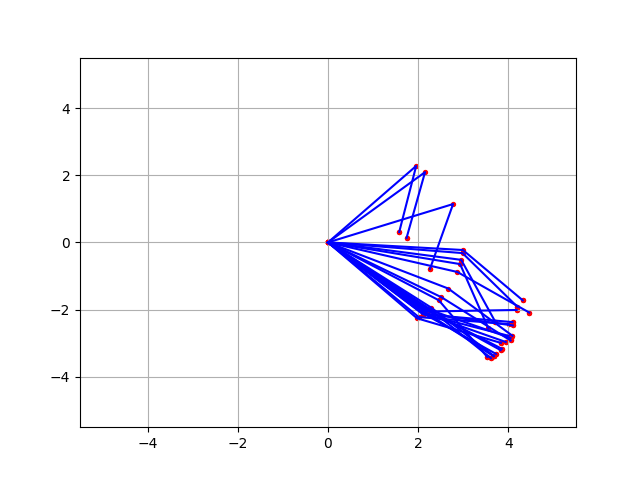
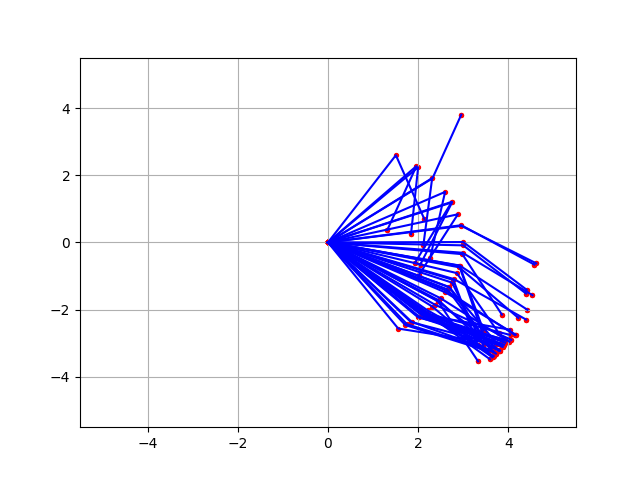
configs for dof added visualization of latent space for INN added

Changed region(s): [[0.5, 0.3125, 0.8438, 0.75], [0.6875, 0.25, 0.7188, 0.3438], [0.8125, 0.5312, 0.8438, 0.5625]]

diff --git a/src/models/INN.py b/src/models/INN.py
@@ -3,6 +3,7 @@ from torch import nn
 import torch.nn.functional as F
 from utils import onehot
 import numpy as np
+import matplotlib.pyplot as plt
 
 '''
 
@@ -48,13 +49,13 @@ class sub_network(nn.Module):
     def __init__(self, input_dim, hidden_dim, output_dim):
         super(sub_network, self).__init__()
         self.fc1 = nn.Linear(in_features=input_dim, out_features=hidden_dim)
-        self.fc2 = nn.Linear(in_features=hidden_dim, out_features=output_dim)
-        # self.fc3 = nn.Linear(in_features=hidden_dim, out_features=output_dim)
+        self.fc2 = nn.Linear(in_features=hidden_dim, out_features=hidden_dim)
+        self.fc3 = nn.Linear(in_features=hidden_dim, out_features=output_dim)
 
     def forward(self, x):
         x = F.leaky_relu(self.fc1(x))
         x = F.leaky_relu(self.fc2(x))
-        # x = F.leaky_relu(self.fc3(x))
+        x = F.leaky_relu(self.fc3(x))
         return x
 
 class AffineCouplingBlock(nn.Module):
@@ -172,6 +173,33 @@ class INN(nn.Module):
             output_inv = self.forward(y_inv, inverse=True)
 
         return output_inv
+
+    def visualise_z(self, config, x):
+
+        assert x.size()[1] == config['total_dim']
+
+        with torch.no_grad():
+            y = self.forward(x, inverse=False)
+
+        z = y[:, :config['latent_dim']]
+
+        if z.size()[1] == 1:
+            raise Exception('Not implemented yet')
+        elif z.size()[1] == 2:
+            plt.title('Latent space')
+            plt.xlabel('Z1')
+            plt.ylabel('Z2')
+            plt.scatter(z[:, 0], z[:, 1], c='g')
+            plt.savefig('figures/latent_space_INN_' + str(config['dof']) + '.png')
+        else:
+            # Perform principal component analysis to project z int 2D space
+            U, S, V = torch.pca_lowrank(z, center=False)
+            z_projected = torch.matmul(z, V[:, :2])
+            plt.title('Latent space')
+            plt.xlabel('Z1')
+            plt.ylabel('Z2')
+            plt.scatter(z_projected[:, 0], z_projected[:, 1], c='g')
+            plt.savefig('figures/projected_latent_space_INN_' + str(config['dof']) + '.png')
 
     def save_checkpoint(self, epoch, optimizer, loss, PATH):
         torch.save({

diff --git a/src/robotsim_train.py b/src/robotsim_train.py
@@ -21,6 +21,7 @@ if __name__ == '__main__':
 
     # model_name = 'CVAE'
     model_name = 'INN'
+    robot_dof = '2DOF'
 
     ####################################################################################################################
     # LOAD DATASET
@@ -29,7 +30,12 @@ if __name__ == '__main__':
     if model_name == 'CVAE':
         config = load_config('robotsim_cVAE.yaml', 'configs/')
     elif model_name == 'INN':
-        config = load_config('robotsim_INN.yaml', 'configs/')
+        if robot_dof == '2DOF':
+            config = load_config('robotsim_INN_2DOF.yaml', 'configs/')
+        elif robot_dof == '3DOF':
+            config = load_config('robotsim_INN_3DOF.yaml', 'configs/')
+        else:
+            raise Exception('DOF not supported for this model')
     else:
         raise Exception('Model not supported')
 
@@ -65,6 +71,9 @@ if __name__ == '__main__':
 
     device = torch.device("cuda:0" if config['use_gpu'] and torch.cuda.is_available() else "cpu")
     model = model.to(device)
+
+    # show the number of trainable parameters
+
 
     ####################################################################################################################
     # TRAINING

diff --git a/src/train_loader.py b/src/train_loader.py
@@ -16,6 +16,10 @@ def train_CVAE(model, config, dataloader, device):
 
     train_loss_avg = []
 
+    num_trainable_parameters = sum(p.numel() for p in model.parameters())
+
+    print('TRAINABLE PARAMETERS: ', num_trainable_parameters)
+
     optimizer = torch.optim.Adam(params=model.parameters(), lr=config['lr_rate'],
                                  weight_decay=config['weight_decay'])
 
@@ -82,7 +86,13 @@ def train_INN(model, config, dataloader, device):
     train_loss_Lx_avg_unweighted = []
     train_loss_Lxy_avg = []
 
-    optimizer = torch.optim.Adam(params=model.parameters(), lr=config['lr_rate'],
+    # show trainable parameters
+    trainable_parameters = [p for p in model.parameters() if p.requires_grad]
+    num_trainable_parameters = sum(p.numel() for p in model.parameters())
+
+    print('TRAINABLE PARAMETERS: ', num_trainable_parameters)
+
+    optimizer = torch.optim.Adam(params=trainable_parameters, lr=config['lr_rate'],
                                  weight_decay=config['weight_decay'])
     # define learning rate scheduler
     scheduler = torch.optim.lr_scheduler.StepLR(optimizer=optimizer, step_size=config['step_size'],

diff --git a/src/robotsim_test.py b/src/robotsim_test.py
@@ -169,5 +169,20 @@ if __name__ == '__main__':
         plt.scatter(z[:, 0], z[:, 1], c='g')
         plt.savefig('figures/Latent_space_' + str(config['dof']) + '.png')
 
+    else:
+        # visualise latent space
+        input = []
+        for i in range(config['num_samples_latent']):
+            input.append(test_dataset.__getitem__(i)[0])
+
+        input = torch.Tensor(input)
+
+        # forward pass only accepts float
+        input = input.float()
+
+        # apply sine and cosine to joint angles
+        input = preprocess(input)
+        model.visualise_z(config, input)
+
 
     print('-----------------------------------------------')

diff --git a/README.md b/README.md
@@ -12,7 +12,10 @@
 - [ ] evaluate incorporating atan2 into the network (instead of tanh)
 - [x] implement basic INN model
 - [ ] implement jacobians of INN model
-- [ ] debug INN model
-- [ ] implement predict method of INN model
-- [ ] implement backward training of INN model
-- [ ] debug MMD loss
+- [x] debug INN model
+- [x] implement predict method of INN model
+- [x] implement backward training of INN model
+- [x] debug MMD loss
+- [x] implement PCA
+- [ ] debug padding
+- [ ] implement abstract model class
